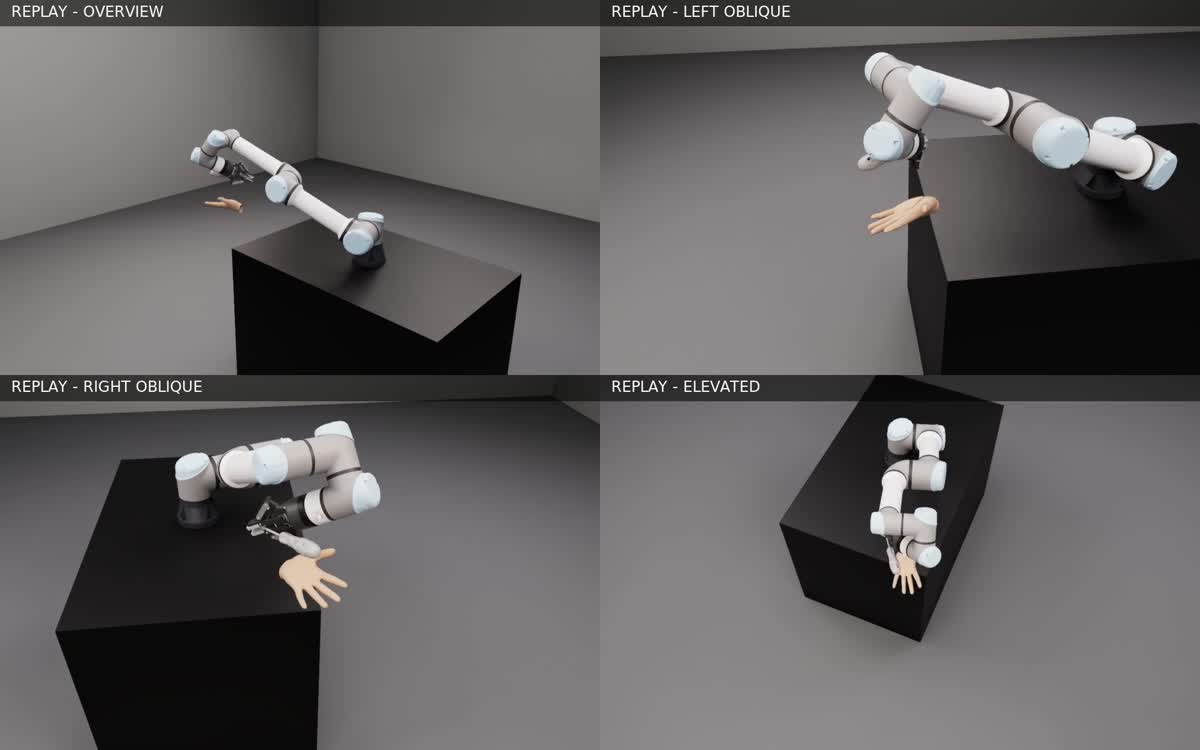
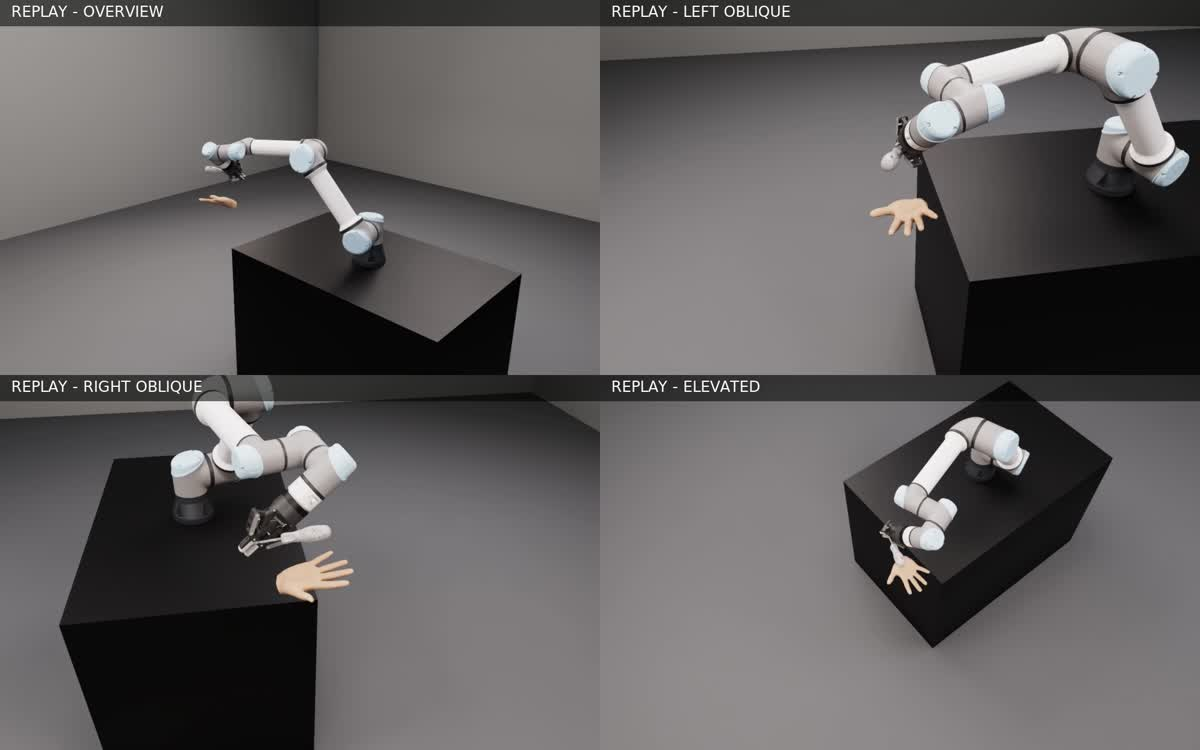
Refresh showcase with posture-reviewed IK replays and full-arm views

diff --git a/README.md b/README.md
@@ -10,22 +10,22 @@ UR5e · Robotiq 2F-85 · Object meshes · Left/right MANO receivers · NVIDIA Is
 
 </div>
 
-[![UR5e handover replay — synchronized workspace and receiving-hand views](docs/media/handover.gif)](https://github.com/Hanxin-Zhang/r2handoversim/releases/download/v0.11.0/handover.mp4)
+[![UR5e handover replay — synchronized workspace and receiving-hand views](docs/media/handover.gif)](https://github.com/Hanxin-Zhang/r2handoversim/releases/download/v0.11.0/handover-natural.mp4)
 
-<p align="center"><b>One handover. Two synchronized views.</b><br>Original robot and object assets, fixed receiving hand, laboratory lighting.<br><a href="https://github.com/Hanxin-Zhang/r2handoversim/releases/download/v0.11.0/handover.mp4">Watch HD video ↗</a></p>
+<p align="center"><b>One handover. Two synchronized views.</b><br>Original robot and object assets, fixed receiving hand, laboratory lighting.<br><a href="https://github.com/Hanxin-Zhang/r2handoversim/releases/download/v0.11.0/handover-natural.mp4">Download HD MP4 ↗</a></p>
 
 ## Explore the scenes
 
-[![Can and screwdriver replay with left and right receiving hands](docs/media/receivers.gif)](https://github.com/Hanxin-Zhang/r2handoversim/releases/download/v0.11.0/receivers.mp4)
+[![Can and screwdriver replay with left and right receiving hands](docs/media/receivers.gif)](https://github.com/Hanxin-Zhang/r2handoversim/releases/download/v0.11.0/receivers-natural.mp4)
 
-**Two objects × two receiving hands, using the A2 setting.** Seeded poses place the palm 0.67–0.85 m horizontally from the robot base. Each receiver stays fixed throughout planning and execution. [Watch the scene montage ↗](https://github.com/Hanxin-Zhang/r2handoversim/releases/download/v0.11.0/receivers.mp4)
+**Two objects × two receiving hands, using the A2 setting.** Full-arm views show each posture and motion. Seeded poses place the palm 0.67–0.85 m horizontally from the robot base. Each receiver stays fixed throughout planning and execution. [Download scene montage ↗](https://github.com/Hanxin-Zhang/r2handoversim/releases/download/v0.11.0/receivers-natural.mp4)
 
 <details>
 <summary><b>Inspect the same trajectory from four cameras</b></summary>
 
-[![Overview, left, right and elevated views of the same replay](docs/media/cameras.jpg)](https://github.com/Hanxin-Zhang/r2handoversim/releases/download/v0.11.0/multiview.mp4)
+[![Overview, left, right and elevated views of the same replay](docs/media/cameras.jpg)](https://github.com/Hanxin-Zhang/r2handoversim/releases/download/v0.11.0/multiview-natural.mp4)
 
-Overview, left, right and elevated views share the same trajectory and evaluated outcome. [Watch synchronized views ↗](https://github.com/Hanxin-Zhang/r2handoversim/releases/download/v0.11.0/multiview.mp4) · [Camera & lighting guide](docs/rendering.md)
+Overview, left, right and elevated views share the same trajectory and evaluated outcome. [Download synchronized views ↗](https://github.com/Hanxin-Zhang/r2handoversim/releases/download/v0.11.0/multiview-natural.mp4) · [Camera & lighting guide](docs/rendering.md)
 
 </details>
 

diff --git a/docs/media/README.md b/docs/media/README.md
@@ -6,13 +6,17 @@ uses five area lights; final recordings use path tracing.
 
 | Media | Scene | Presentation |
 |---|---|---|
-| `handover.gif` / `handover.mp4` | Screwdriver, left receiver, FS; all five checks passed | Synchronized workspace and right-oblique views |
-| `receivers.gif` / `receivers.mp4` | Can and screwdriver, left/right receivers, A2, seed 27 | Four independent trials, each at 0.5× playback; completed clips hold their final frame |
-| `cameras.jpg` / `multiview.mp4` | Same FS screwdriver trajectory as the hero | Overview, left, right and elevated cameras |
+| `handover.gif` / `handover-natural.mp4` | Screwdriver, right receiver, FS; all five checks passed | Synchronized workspace and right-oblique views |
+| `receivers.gif` / `receivers-natural.mp4` | Can and screwdriver, left/right receivers, A2, seed 41 | Four full-arm views at 0.5× playback; completed clips hold their final frame |
+| `cameras.jpg` / `multiview-natural.mp4` | Same FS screwdriver trajectory as the hero | Overview, left, right and elevated cameras |
 
 [Recording metadata](recordings.json) lists the evaluated montage outcomes.
 These scenes demonstrate the workflow; paper-reference aggregate records are
 available through the separate `paper-replay` command.
+
+The hero uses a bent-elbow IK pose (55.7° at the endpoint) with 6.3° terminal
+wrist roll. The gallery scenes are also selected for posture review within the
+same configured receiver bounds.
 
 The GIFs provide inline GitHub previews. Their image links open H.264 MP4
 attachments on the benchmark release. Source models and scene inputs are
@@ -21,3 +25,14 @@ configured locally under the [external asset terms](../../THIRD_PARTY.md).
 To create your own clips, follow [quickstart](../quickstart.md), then replay a
 resolved scene with the [camera presets](../rendering.md). `verify-output`
 checks the run before `review-video` adds result captions.
+
+## Receiver samples in these clips
+
+Use the configured outward bounds with `receiver-scenes --samples 24 --seed 41`.
+The hero is screwdriver / sample 5 / right / FS. The gallery uses A2 for can
+samples 10 (left) and 5 (right), and screwdriver samples 0 (left) and 21 (right).
+Each scene is passed to method selection before original-collider planning.
+
+Camera replays load the resolved scene. All four hero views have identical
+numeric trajectories and evaluated metrics; gallery overview and detail views
+use the same paired records.

diff --git a/docs/validation.md b/docs/validation.md
@@ -285,3 +285,19 @@ and the previously verified FS screwdriver replay as synchronized dual-view and
 four-camera media. Inline GIFs link to HD MP4 attachments. The
 [media record](media/recordings.json) retains each displayed trial's evaluated
 outcome and method setting.
+
+## Posture-reviewed showcase — 2026-10-01
+
+The current hero is the seed-41 screwdriver right-receiver sample 5, selected
+with FS and evaluated in Isaac Sim. Its endpoint joint angles are
+`[18.05, -51.89, 55.70, -84.29, -140.87, 6.31]` degrees: a bent elbow and a small
+terminal wrist roll. All five checks passed across 91 executed frames.
+Overview, left, right and elevated recordings passed `verify-output` and have
+identical trajectory arrays and evaluated metrics.
+
+The A2 gallery uses can samples 10/5 and screwdriver samples 0/21 (left/right),
+all from the same seed-41 receiver bank and configured outward bounds. The
+four trajectories contain 79, 97, 169 and 127 frames; all applicable checks
+passed. The full-arm camera views replay those resolved scenes. Each method
+selection was recomputed on its sampled scene before simulation. Media sample
+IDs, endpoint angles and outcomes are retained in [recordings.json](media/recordings.json).

diff --git a/docs/paper_details.md b/docs/paper_details.md
@@ -68,7 +68,7 @@ planning failure, not proof that no feasible path exists.
 
 ![Original-asset replay from four camera views](media/cameras.jpg)
 
-[Watch the synchronized replay](https://github.com/Hanxin-Zhang/r2handoversim/releases/download/v0.11.0/multiview.mp4).
+[Download the synchronized replay](https://github.com/Hanxin-Zhang/r2handoversim/releases/download/v0.11.0/multiview-natural.mp4).
 
 ## Use the static hand triangles for Safe
 
